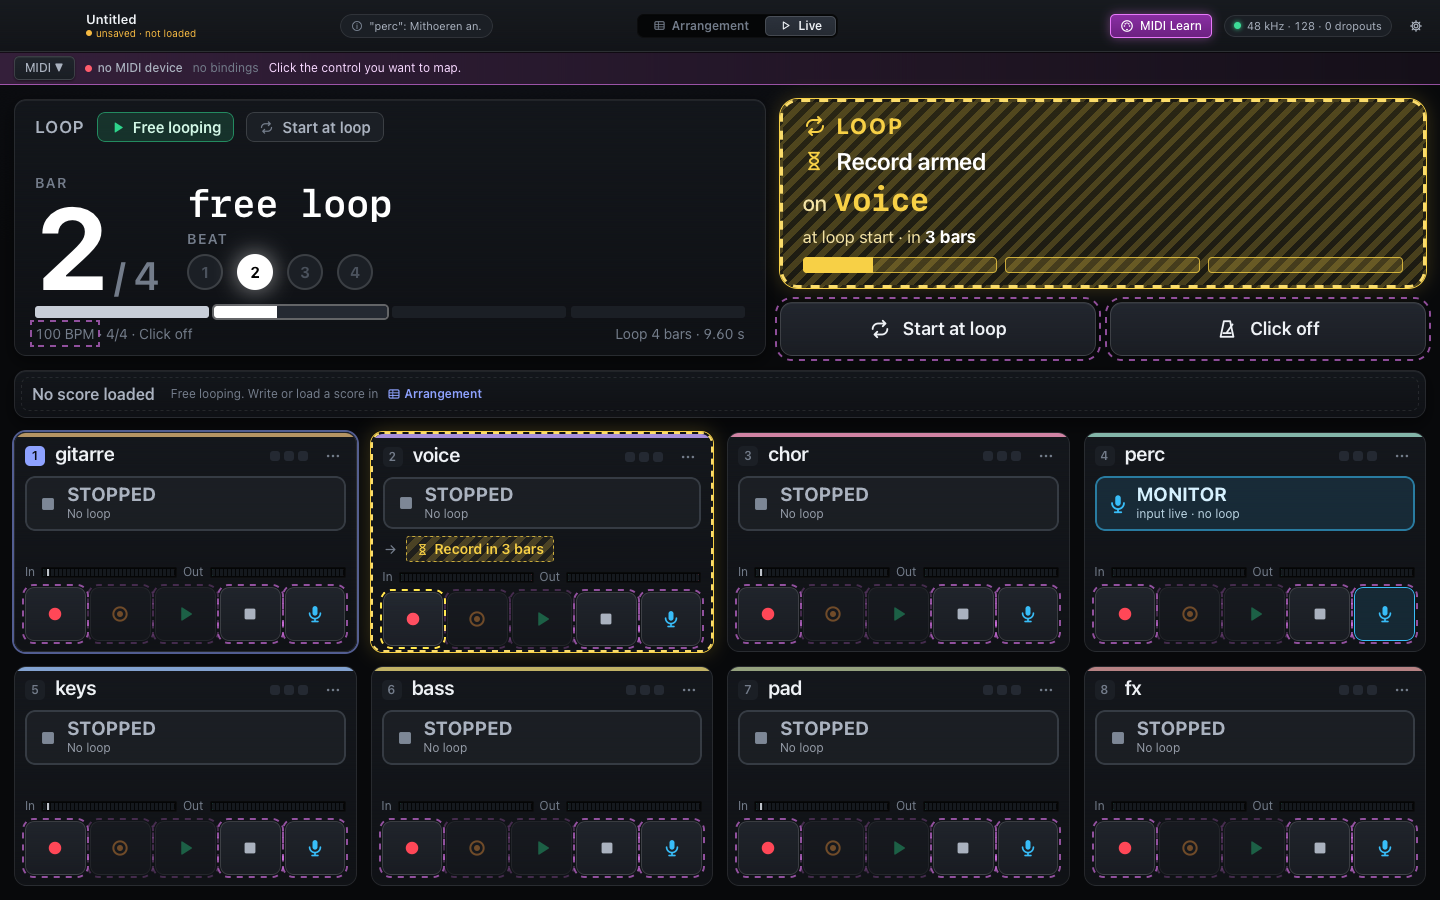
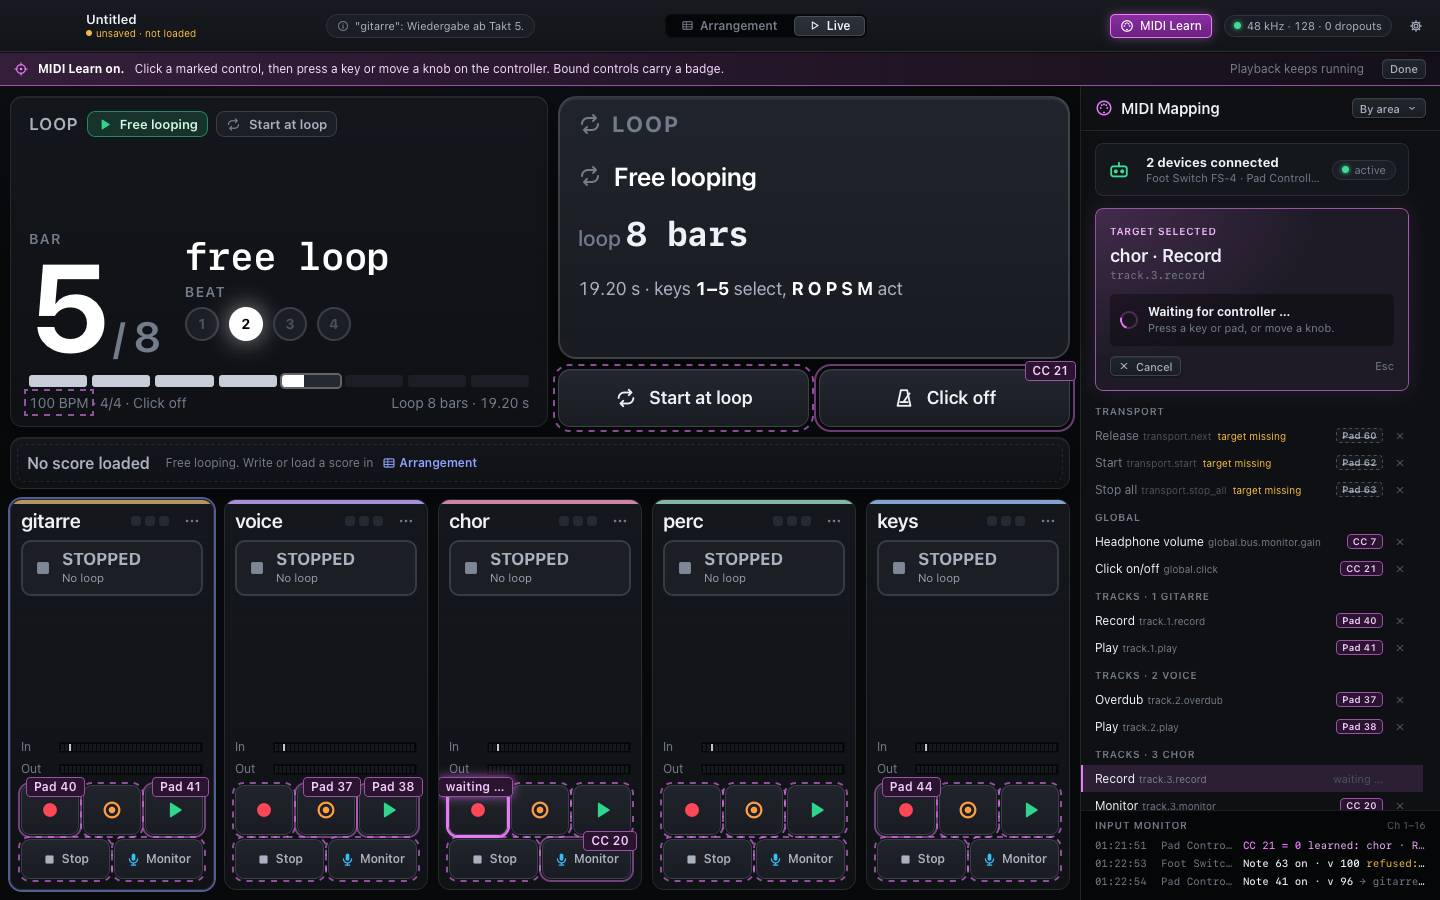
MIDI: Vergleichsbilder der echten App (Lernen live, Geraet fehlt im Arrangement, Optionen, Setup, zwei gleiche Geraete)
Claude-Session: https://claude.ai/code/session_01XVJQjtiq9eTJcgsBFjgt6D

diff --git a/ui/src/midi/MidiSide.tsx b/ui/src/midi/MidiSide.tsx
@@ -286,7 +286,7 @@ function deviceLine(d: MidiDeviceView): string {
   switch (d.state) {
     case "connected":
       return d.inactive > 0
-        ? `connected · ${d.active} of ${d.bindings} bindings active`
+        ? `connected · ${d.active} of ${d.bindings} active`
         : `connected · ${plural(d.bindings, "binding")} active`;
     case "missing":
       return d.bindings === 0
